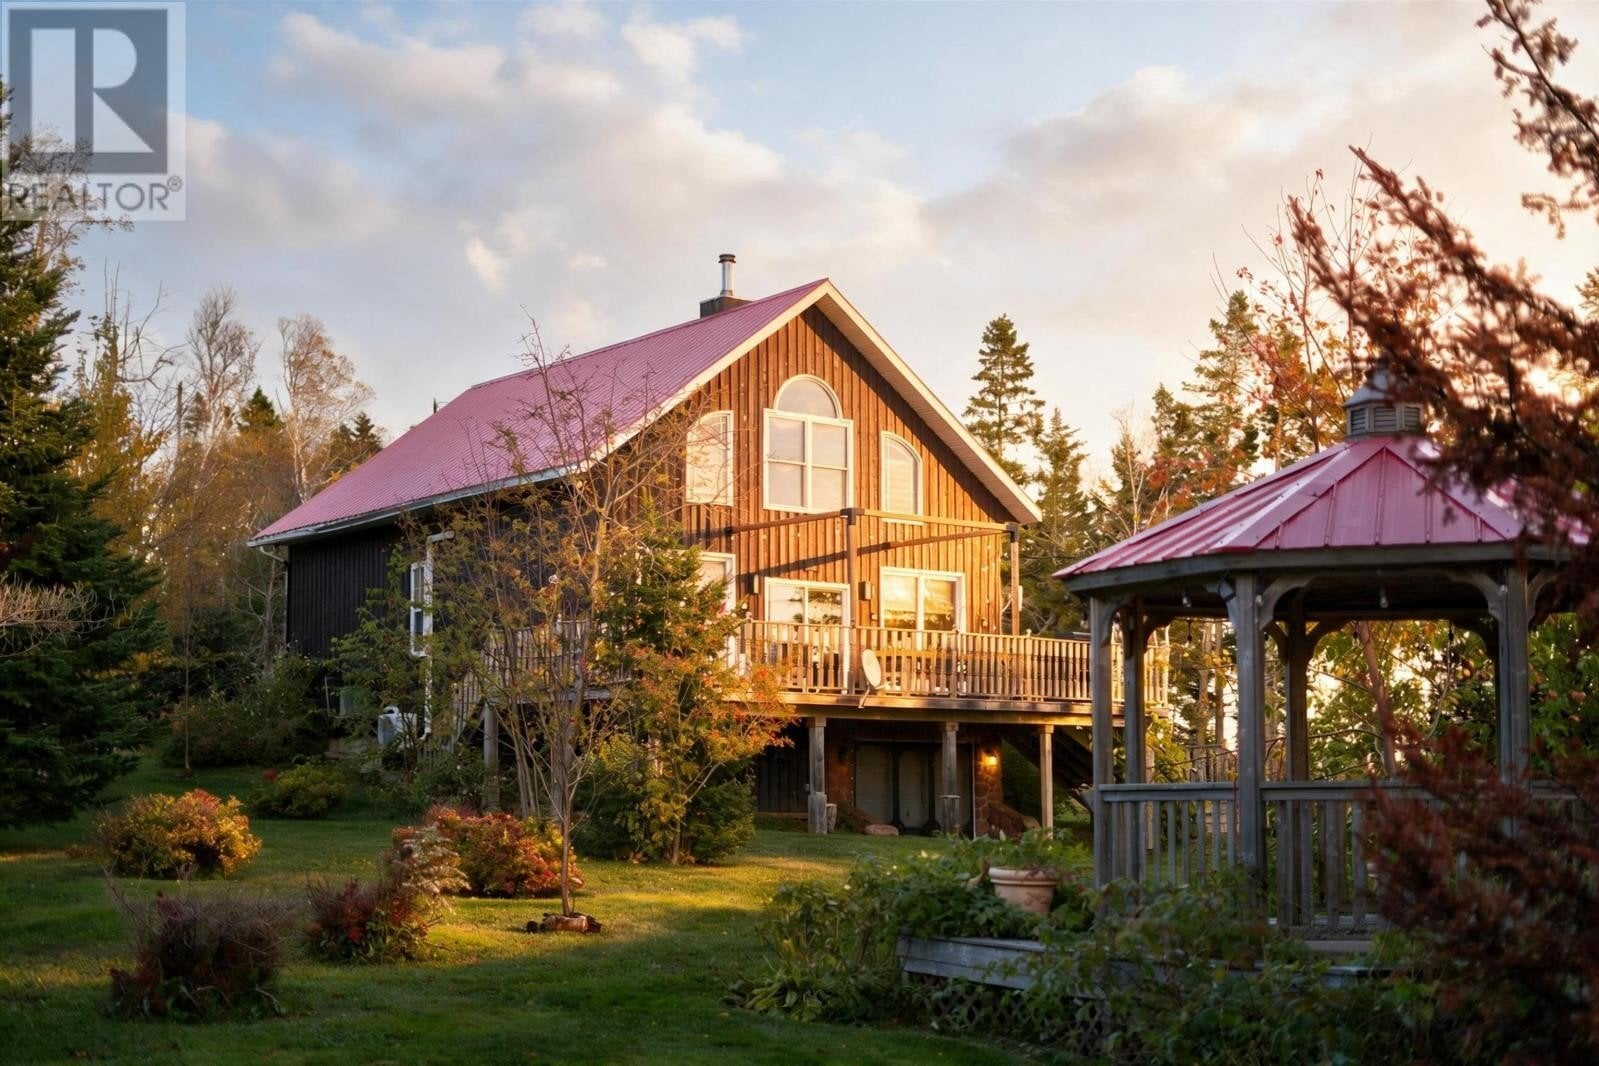
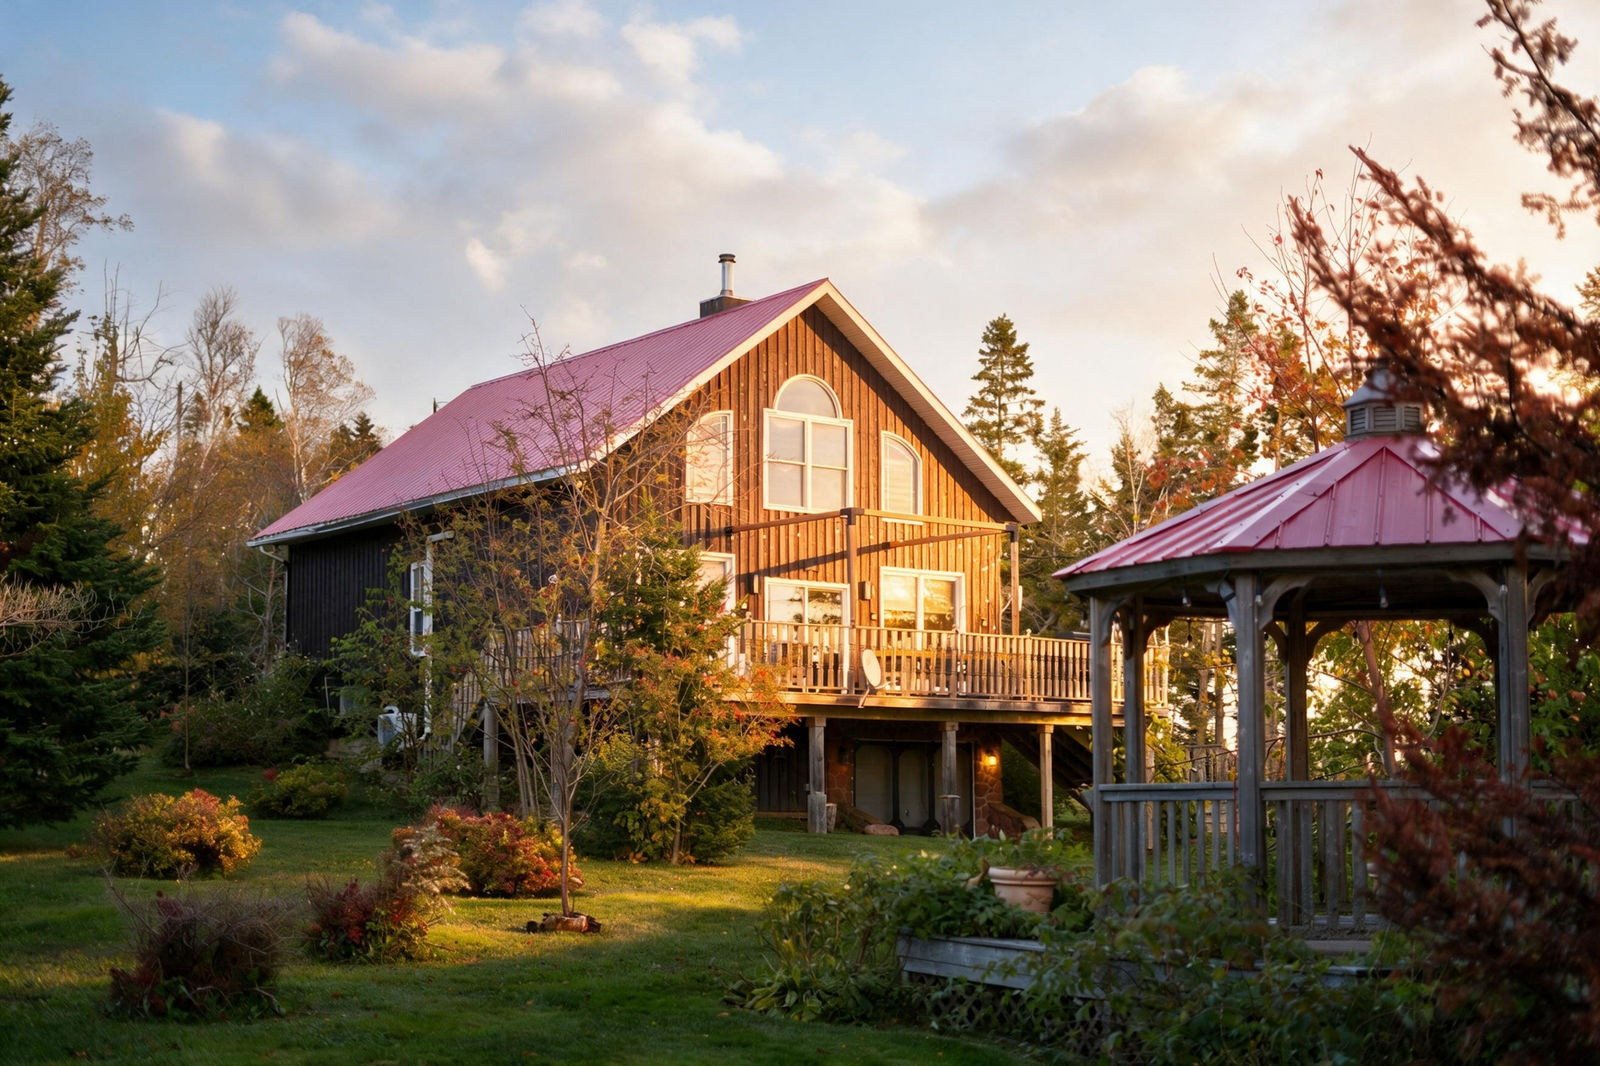
Replace property photos and fix mobile header overlap

diff --git a/index.html b/index.html
@@ -11,7 +11,7 @@
 <meta property="og:url" content="https://150-mill-road.vercel.app/">
 <meta property="og:image" content="https://150-mill-road.vercel.app/assets/150-mill-road-preview.jpg">
 <meta property="og:image:type" content="image/jpeg">
-<meta property="og:image:width" content="1599">
+<meta property="og:image:width" content="1600">
 <meta property="og:image:height" content="1066">
 <meta property="og:image:alt" content="The chalet and gazebo at 150 Mill Road at sunset">
 <meta name="twitter:card" content="summary_large_image">
@@ -22,7 +22,7 @@
 <link rel="preconnect" href="https://fonts.googleapis.com">
 <link rel="preconnect" href="https://fonts.gstatic.com" crossorigin>
 <link href="https://fonts.googleapis.com/css2?family=Fraunces:opsz,wght@9..144,400;9..144,500;9..144,600&family=DM+Sans:wght@400;500;600&display=swap" rel="stylesheet">
-<link rel="preload" as="image" href="https://photos.zolo.ca/150-mill-road-pooles-corner-202626231-1-p.jpg">
+<link rel="preload" as="image" href="assets/photos/photo-25.webp">
 <script type="application/ld+json">
 {
   "@context": "https://schema.org",
@@ -30,7 +30,7 @@
   "name": "150 Mill Road, Pooles Corner, PE",
 
   "datePosted": "2026-10-20",
-  "image": "https://photos.zolo.ca/150-mill-road-pooles-corner-202626231-1-p.jpg",
+  "image": "assets/photos/photo-25.webp",
   "offers": { "@type": "Offer", "price": 750000, "priceCurrency": "CAD", "availability": "https://schema.org/InStock" },
   "about": {
     "@type": "SingleFamilyResidence",
@@ -102,8 +102,9 @@
   @media (max-width: 1060px) { .nav-links { display: none; } }
   @media (max-width: 520px) { .nav-mark small { display: none; } }
 
+
   /* Hero */
-  .hero { position: relative; min-height: 100svh; display: flex; align-items: flex-end; color: #fff; padding: 0 0 clamp(40px, 7vw, 80px); overflow: hidden; }
+  .hero { position: relative; min-height: 100svh; display: flex; align-items: flex-end; color: #fff; padding: 100px 0 clamp(40px, 7vw, 80px); overflow: hidden; }
   .hero-img { position: absolute; inset: 0; width: 100%; height: 100%; object-fit: cover; transform: scale(1.06); animation: settle 2.4s cubic-bezier(.2,.7,.2,1) forwards; }
   @keyframes settle { to { transform: scale(1); } }
   .hero::after { content: ""; position: absolute; inset: 0; background: linear-gradient(180deg, rgba(10,16,12,.55) 0%, rgba(10,16,12,0) 26%, rgba(10,16,12,.1) 50%, rgba(10,16,12,.82) 100%); }
@@ -317,6 +318,18 @@
     .hero-img { animation: none; transform: none; }
     * { transition-duration: 0s !important; }
   }
+  /* Keep the mobile header in the page flow, above the hero content. */
+  @media (max-width: 760px) {
+    .nav { position: sticky; top: 0; background: var(--paper); box-shadow: 0 1px 0 var(--line); padding-top: env(safe-area-inset-top, 0px); }
+    .nav .wrap { gap: 12px; }
+    .nav .nav-mark { color: var(--ink); font-size: 18px; }
+    .nav-mark small { display: none; }
+    .nav .btn { padding-inline: 14px; }
+    .hero { min-height: calc(100svh - 68px - env(safe-area-inset-top, 0px)); padding-top: 32px; }
+    .hero::after { background: linear-gradient(180deg, rgba(10,16,12,.48), rgba(10,16,12,.35) 35%, rgba(10,16,12,.84)); }
+  }
+
+
 </style>
 </head>
 <body>
@@ -337,7 +350,7 @@
 
 <main id="top">
   <section class="hero" aria-label="Listing overview">
-    <img class="hero-img" src="https://photos.zolo.ca/150-mill-road-pooles-corner-202626231-1-p.jpg" alt="The chalet and gazebo at 150 Mill Road at sunset, surrounded by gardens" fetchpriority="high">
+    <img class="hero-img" src="assets/photos/photo-25.webp" alt="The chalet and gazebo at 150 Mill Road at sunset, surrounded by gardens" fetchpriority="high">
     <div class="wrap">
       <span class="badge"><i></i>New listing &middot; MLS&reg; 202626231</span>
       <h1>150 Mill Road</h1>
@@ -351,9 +364,9 @@
       </div>
       <div class="hero-ctas">
         <a class="btn btn-primary" href="#contact">Book a showing</a>
-        <button class="btn btn-ghost" type="button" data-open="1">
+        <button class="btn btn-ghost" type="button" data-open="25">
           <svg viewBox="0 0 24 24" fill="none" stroke="currentColor" stroke-width="2"><rect x="3" y="5" width="18" height="14" rx="2"/><circle cx="9" cy="11" r="2"/><path d="m21 17-5-5-9 7"/></svg>
-          View all 41 photos
+          View all 37 photos
         </button>
         <button class="btn btn-ghost" type="button" id="share">
           <svg viewBox="0 0 24 24" fill="none" stroke="currentColor" stroke-width="2"><path d="M4 12v7a2 2 0 0 0 2 2h12a2 2 0 0 0 2-2v-7M16 6l-4-4-4 4M12 2v14"/></svg>
@@ -396,9 +409,9 @@
         <h2 id="house-h">Built around the fire</h2>
       </div>
       <div class="mosaic rv">
-        <button type="button" data-open="10" aria-label="Open photo: great room"><img src="https://photos.zolo.ca/150-mill-road-pooles-corner-202626231-10-p.jpg" alt="Great room with Island stone fireplace and arched wood ceiling" loading="lazy"></button>
-        <button type="button" data-open="4" aria-label="Open photo: kitchen"><img src="https://photos.zolo.ca/150-mill-road-pooles-corner-202626231-4-p.jpg" alt="Kitchen with island and open shelving" loading="lazy"></button>
-        <button type="button" data-open="15" aria-label="Open photo: primary bedroom"><img src="https://photos.zolo.ca/150-mill-road-pooles-corner-202626231-15-p.jpg" alt="Primary bedroom with wood ceiling" loading="lazy"></button>
+        <button type="button" data-open="26" aria-label="Open photo: great room"><img src="assets/photos/photo-26.webp" alt="Great room with Island stone fireplace and arched wood ceiling" loading="lazy"></button>
+        <button type="button" data-open="34" aria-label="Open photo: kitchen"><img src="assets/photos/photo-34.webp" alt="Kitchen with island and open shelving" loading="lazy"></button>
+        <button type="button" data-open="3" aria-label="Open photo: primary bedroom"><img src="assets/photos/photo-03.webp" alt="Primary bedroom with wood ceiling" loading="lazy"></button>
       </div>
       <div class="features">
         <div class="feature rv"><h3>24-ft arched ceilings</h3><p>Warm wood overhead through the whole great room, with a loft looking down.</p></div>
@@ -433,7 +446,7 @@
       </figure>
 
       <div class="amenity rv">
-        <button class="amenity-img" type="button" data-open="32" aria-label="Open photo: swimming pond"><img src="https://photos.zolo.ca/150-mill-road-pooles-corner-202626231-32-p.jpg" alt="Landscaped swimming pond surrounded by trees" loading="lazy"></button>
+        <button class="amenity-img" type="button" data-open="28" aria-label="Open photo: swimming pond"><img src="assets/photos/photo-28.webp" alt="Landscaped swimming pond surrounded by trees" loading="lazy"></button>
         <div>
           <span class="num">01</span>
           <h3>Swimming pond and sauna</h3>
@@ -443,7 +456,7 @@
       </div>
 
       <div class="amenity flip rv">
-        <button class="amenity-img" type="button" data-open="30" aria-label="Open photo: geodesic dome"><img src="https://photos.zolo.ca/150-mill-road-pooles-corner-202626231-30-p.jpg" alt="Geodesic event dome among the trees with hot tub in the foreground" loading="lazy"></button>
+        <button class="amenity-img" type="button" data-open="19" aria-label="Open photo: geodesic dome"><img src="assets/photos/photo-19.webp" alt="Geodesic event dome among the trees with hot tub in the foreground" loading="lazy"></button>
         <div>
           <span class="num">02</span>
           <h3>Space to host</h3>
@@ -453,7 +466,7 @@
       </div>
 
       <div class="amenity rv">
-        <button class="amenity-img" type="button" data-open="33" aria-label="Open photo: sunken fire lounge"><img src="https://photos.zolo.ca/150-mill-road-pooles-corner-202626231-33-p.jpg" alt="Sunken curved lounge around a fire pit on a brick patio" loading="lazy"></button>
+        <button class="amenity-img" type="button" data-open="30" aria-label="Open photo: sunken fire lounge"><img src="assets/photos/photo-30.webp" alt="Sunken curved lounge around a fire pit on a brick patio" loading="lazy"></button>
         <div>
           <span class="num">03</span>
           <h3>Gardens to wander</h3>
@@ -510,7 +523,7 @@
           <h2 id="gal-h">Take the tour</h2>
         </div>
         <div class="filters" role="group" aria-label="Filter photos">
-          <button type="button" data-filter="all" aria-pressed="true">All 41</button>
+          <button type="button" data-filter="all" aria-pressed="true">All 37</button>
           <button type="button" data-filter="out" aria-pressed="false">Outside</button>
           <button type="button" data-filter="great" aria-pressed="false">Great room &amp; kitchen</button>
           <button type="button" data-filter="bed" aria-pressed="false">Bedrooms &amp; baths</button>
@@ -666,7 +679,7 @@
   <div class="wrap">
     <p><strong>150 Mill Road, Pooles Corner, PE C0A 1G0</strong> &middot; MLS&reg; 202626231 &middot; Listed by Royal LePage Prince Edward Realty</p>
     <p>All information displayed is believed to be accurate but is not guaranteed and should be independently verified. No warranties or representations are made of any kind. Measurements are approximate. Listing data provided by the Prince Edward Island Real Estate Association. The trademarks MLS&reg;, Multiple Listing Service&reg; and REALTOR&reg; are controlled by The Canadian Real Estate Association (CREA).</p>
-    <p>Concept draft for review by the listing agent. Not an official listing page. Photos currently load from the public listing and would be replaced with the original files.</p>
+    <p>Concept draft for review by the listing agent. Not an official listing page. Photos from Anthony Delodder Real Estate's property gallery.</p>
   </div>
 </footer>
 
@@ -693,58 +706,202 @@
 
 <script>
 (() => {
-  const SRC = n => `https://photos.zolo.ca/150-mill-road-pooles-corner-202626231-${n}-p.jpg`;
+  const SRC = (n, thumb = false) => `assets/photos/photo-${String(n).padStart(2, '0')}${thumb ? '-thumb' : ''}.webp`;
   // [photo number, caption, category] in walk-through order
   const PHOTOS = [
-    [1, 'The chalet and gazebo at sunset', 'out'],
-    [2, 'Front gardens and gazebo', 'out'],
-    [40, 'The house from the yard', 'out'],
-    [10, 'Great room with Island stone fireplace', 'great'],
-    [3, 'Fireplace and arched wood ceiling', 'great'],
-    [12, 'Great room', 'great'],
-    [11, 'Firewood column and dining area', 'great'],
-    [13, 'Living area and loft', 'great'],
-    [14, 'Living area', 'great'],
-    [9, 'Dining room with garden doors', 'great'],
-    [4, 'Kitchen', 'great'],
-    [5, 'Kitchen and dining', 'great'],
-    [6, 'Kitchen island', 'great'],
-    [7, 'Kitchen', 'great'],
-    [8, 'Kitchen under the arched ceiling', 'great'],
-    [15, 'Primary bedroom', 'bed'],
-    [16, 'Primary bedroom', 'bed'],
-    [17, 'Primary bedroom', 'bed'],
-    [18, 'Main-floor bathroom', 'bed'],
-    [19, 'Staircase', 'more'],
-    [20, 'Staircase to the loft', 'more'],
-    [21, 'Upper landing', 'more'],
-    [22, 'Upstairs bedroom', 'bed'],
-    [24, 'Upstairs bedroom', 'bed'],
-    [23, 'Upstairs bathroom with soaker tub', 'bed'],
-    [25, 'Hallway', 'more'],
-    [26, 'Hallway', 'more'],
-    [27, 'Laundry', 'more'],
-    [28, 'Entry', 'more'],
-    [32, 'Swimming pond', 'out'],
-    [31, 'Wood-fired sauna by the pond', 'out'],
-    [30, 'Geodesic event dome and hot tub', 'out'],
-    [33, 'Sunken fire lounge', 'out'],
-    [34, 'Patio at golden hour', 'out'],
-    [29, 'Fire pit and grounds', 'out'],
-    [38, 'Gardens and lawn', 'out'],
-    [39, 'Outbuilding', 'out'],
-    [41, 'Gardens in autumn', 'out'],
-    [35, 'Aerial view', 'air'],
-    [36, 'Aerial view', 'air'],
-    [37, 'Aerial view toward the water', 'air']
-  ];
-  const WIDE = new Set([1, 10, 32, 30, 35]);
+    [
+        25,
+        "The chalet and gazebo at sunset",
+        "out"
+    ],
+    [
+        4,
+        "Front gardens and gazebo",
+        "out"
+    ],
+    [
+        35,
+        "The chalet from the garden",
+        "out"
+    ],
+    [
+        29,
+        "The house at sunset",
+        "out"
+    ],
+    [
+        26,
+        "Great room with Island stone fireplace",
+        "great"
+    ],
+    [
+        23,
+        "Fireplace and arched wood ceiling",
+        "great"
+    ],
+    [
+        7,
+        "Living and dining areas",
+        "great"
+    ],
+    [
+        13,
+        "Firewood column and dining area",
+        "great"
+    ],
+    [
+        18,
+        "Living room in the afternoon sun",
+        "great"
+    ],
+    [
+        31,
+        "Living area and staircase",
+        "great"
+    ],
+    [
+        9,
+        "Dining room with garden doors",
+        "great"
+    ],
+    [
+        2,
+        "Kitchen and dining nook",
+        "great"
+    ],
+    [
+        37,
+        "Kitchen island and refrigerator",
+        "great"
+    ],
+    [
+        34,
+        "Kitchen under the arched ceiling",
+        "great"
+    ],
+    [
+        33,
+        "Kitchen island",
+        "great"
+    ],
+    [
+        22,
+        "Kitchen and loft",
+        "great"
+    ],
+    [
+        3,
+        "Primary bedroom",
+        "bed"
+    ],
+    [
+        1,
+        "Primary bedroom and dresser",
+        "bed"
+    ],
+    [
+        5,
+        "Primary bedroom and doorway",
+        "bed"
+    ],
+    [
+        32,
+        "Main-floor bathroom",
+        "bed"
+    ],
+    [
+        6,
+        "Staircase",
+        "more"
+    ],
+    [
+        17,
+        "Upper landing overlooking the living room",
+        "more"
+    ],
+    [
+        20,
+        "Upstairs bedroom with wood ceiling",
+        "bed"
+    ],
+    [
+        24,
+        "Upstairs bedroom",
+        "bed"
+    ],
+    [
+        8,
+        "Upstairs hallway",
+        "more"
+    ],
+    [
+        27,
+        "Upstairs bathroom with soaker tub",
+        "bed"
+    ],
+    [
+        21,
+        "Entry hallway",
+        "more"
+    ],
+    [
+        12,
+        "Hallway and doorway",
+        "more"
+    ],
+    [
+        36,
+        "Laundry",
+        "more"
+    ],
+    [
+        30,
+        "Swimming pond and sunken lounge",
+        "out"
+    ],
+    [
+        28,
+        "Swimming pond and barrel sauna",
+        "out"
+    ],
+    [
+        16,
+        "Wood-fired sauna at sunset",
+        "out"
+    ],
+    [
+        19,
+        "Geodesic event dome and hot tub",
+        "out"
+    ],
+    [
+        10,
+        "Sunken lounge beside the pond",
+        "out"
+    ],
+    [
+        14,
+        "Patio and grounds",
+        "out"
+    ],
+    [
+        11,
+        "Aerial view of the property",
+        "air"
+    ],
+    [
+        15,
+        "Aerial view of the chalet",
+        "air"
+    ]
+];
+  const WIDE = new Set([25, 26, 28, 19, 11]);
 
   // Gallery grid
   const grid = document.getElementById('grid');
   grid.innerHTML = PHOTOS.map(([n, cap, cat], i) =>
     `<button type="button" data-i="${i}" data-cat="${cat}" class="${WIDE.has(n) ? 'wide' : ''}" aria-label="Open photo: ${cap}">
-       <img src="${SRC(n)}" alt="${cap}" loading="lazy"><span>${cap}</span></button>`).join('');
+       <img src="${SRC(n, true)}" alt="${cap}" loading="lazy"><span>${cap}</span></button>`).join('');
 
   let visible = PHOTOS.map((_, i) => i);
   document.querySelectorAll('[data-filter]').forEach(b => b.addEventListener('click', () => {
